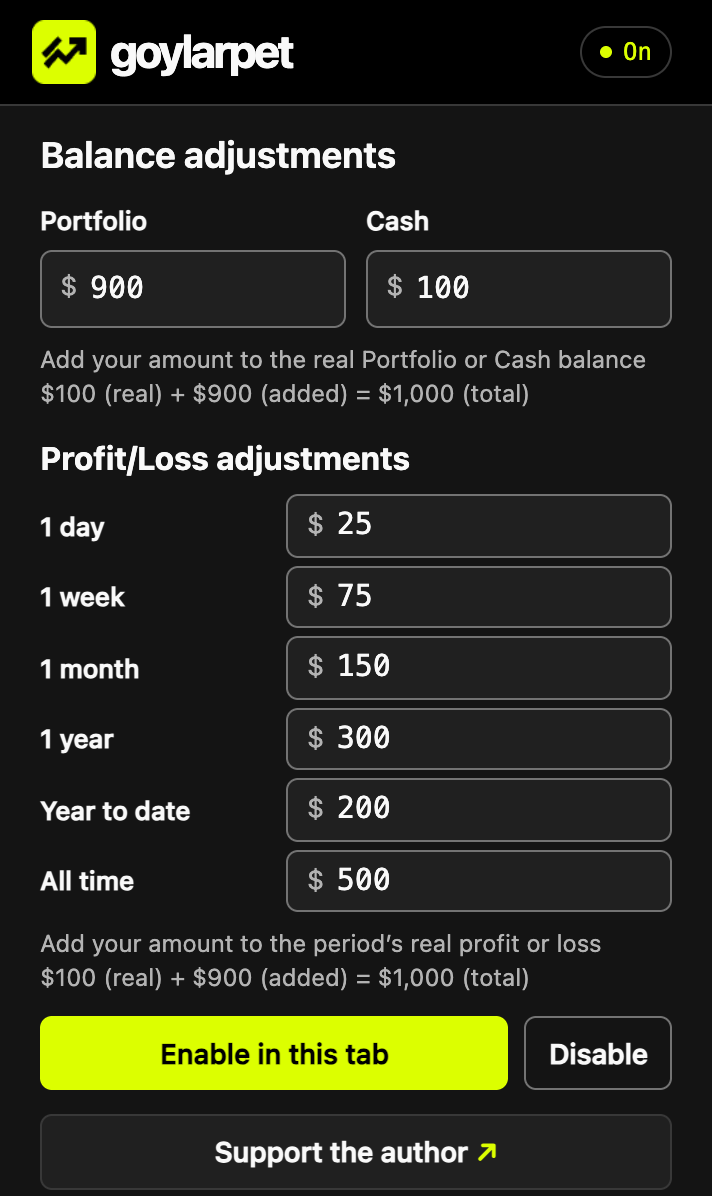
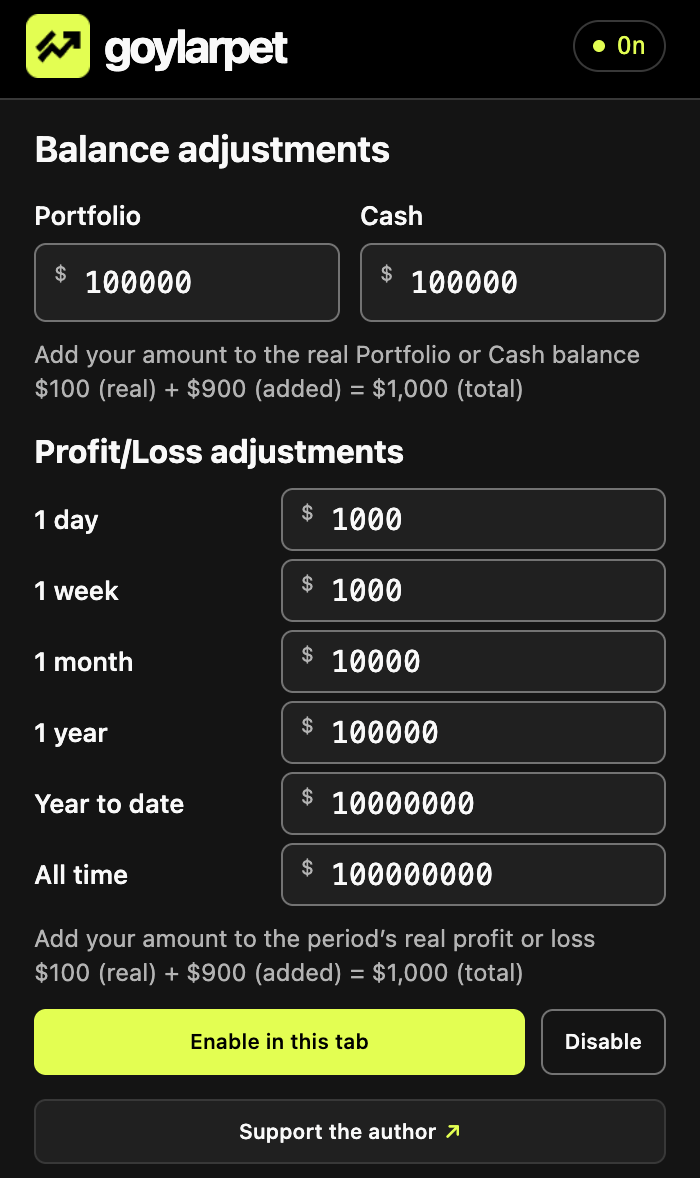
Show the Polymarket before and after screenshots on the landing page

diff --git a/site/assets/site.css b/site/assets/site.css
@@ -47,12 +47,28 @@ nav a:hover, .card-link:hover { color: var(--lime); }
 .lead { margin-block: 24px 28px; max-width: 38ch; font-size: clamp(17px, 1.5vw, 21px); color: var(--muted); }
 .preview { display: grid; place-items: center; }
 .preview img { display: block; width: min(100%, 326px); height: auto; border-radius: 12px; outline: 1px solid var(--line); box-shadow: 0 22px 48px -16px #000c; }
+.preview figcaption { margin-top: 12px; font-size: 14px; color: var(--muted); }
+.comparison { border-top: 1px solid var(--line); padding-block: clamp(32px, 5vw, 64px); }
+.comparison-heading { display: flex; align-items: baseline; justify-content: space-between; flex-wrap: wrap; gap: 10px 20px; margin-bottom: 24px; }
+.parody-note, .shot-label { font: 600 12px/1.5 ui-monospace, monospace; letter-spacing: .06em; }
+.parody-note { color: var(--lime); }
+.comparison-grid, .all-time { display: grid; grid-template-columns: repeat(2, minmax(0, 1fr)); gap: clamp(18px, 3vw, 36px); }
+.portfolio-shot { display: block; overflow: hidden; aspect-ratio: 3.1; background: var(--black); border: 1px solid var(--line); border-radius: 10px; cursor: zoom-in; }
+.portfolio-shot:hover { border-color: var(--lime); }
+/* Center both portfolio cards in the preview. The link opens the entire screenshot. */
+.portfolio-shot img { display: block; width: 143%; height: auto; margin: -11% 0 0 -21.5%; }
+.comparison figcaption { font-size: clamp(23px, 2.6vw, 36px); line-height: 1.1; font-weight: 550; letter-spacing: -.035em; }
+.comparison-grid figcaption { margin-top: 14px; }
+.shot-label { display: block; margin-bottom: 5px; color: var(--muted); }
+.all-time { align-items: center; margin-top: 32px; padding-top: 32px; border-top: 1px solid var(--line); }
+.all-time img { width: 100%; height: auto; display: block; border: 1px solid var(--line); border-radius: 10px; }
+.all-time strong { display: block; font-weight: inherit; color: var(--lime); }
 .walkthrough { margin-bottom: 48px; }
 .walkthrough video { display: block; width: 100%; max-height: 75vh; background: var(--black); border-radius: 12px; }
 .walkthrough h2 { margin-bottom: 14px; }
 .support-section { border-top: 1px solid var(--line); background: var(--panel); scroll-margin-top: 18px; }
 .support-grid { display: grid; grid-template-columns: 1.15fr .85fr; gap: 5%; align-items: center; padding-block: clamp(34px, 4vw, 56px); }
-.support-heading h2, .walkthrough h2 { font-weight: 500; letter-spacing: -.04em; font-size: clamp(32px, 3.8vw, 50px); line-height: 1.04; }
+.support-heading h2, .walkthrough h2, .comparison h2 { font-weight: 500; letter-spacing: -.04em; font-size: clamp(32px, 3.8vw, 50px); line-height: 1.04; }
 .support-heading p { margin-top: 12px; color: var(--muted); }
 .support-panel { min-width: 0; border-left: 1px solid var(--line); padding-left: clamp(18px, 3vw, 40px); }
 #no-address { display: flex; align-items: center; gap: 14px; flex-wrap: wrap; font-size: 14px; color: var(--muted); }
@@ -98,6 +114,11 @@ select { width: 100%; display: block; margin-top: 5px; padding: 8px; border: 1px
   .bar nav { font-size: 12px; gap: 12px; }
   .nav-install { min-height: 38px; font-size: 13px; padding: 7px 13px; }
   .hero, .doc-grid, .support-grid { grid-template-columns: minmax(0, 1fr); gap: 28px; }
+  .comparison-grid, .all-time { grid-template-columns: minmax(0, 1fr); }
+  .comparison-grid { gap: 24px; }
+  .portfolio-shot { aspect-ratio: 2.15; }
+  .portfolio-shot img { width: 285%; margin: -23% 0 0 -44.5%; }
+  .all-time { gap: 14px; margin-top: 24px; padding-top: 24px; }
   .hero h1 span { margin-top: 12px; }
   .lead { margin-block: 16px 20px; }
   .support-panel { border: 0; padding: 0; }

diff --git a/site/index.html b/site/index.html
@@ -30,7 +30,32 @@
         <a class="nav-install" data-install href="/download/">Install <span aria-hidden="true">↗</span></a>
       </div>
       <figure class="preview">
-        <img src="/assets/popup.png" width="712" height="1196" alt="goylarpet popup showing balance adjustments, six profit and loss periods and the Support the author link">
+        <img src="/assets/popup.png" width="700" height="1178" alt="goylarpet is on with $100,000 added to Portfolio and Cash and $100 million added to all-time profit and loss">
+        <figcaption>My settings</figcaption>
+      </figure>
+    </section>
+    <section class="comparison shell" id="before-and-after" aria-labelledby="comparison-title">
+      <header class="comparison-heading">
+        <h2 id="comparison-title">Before &amp; after</h2>
+        <p class="parody-note">PARODY · NO REAL MONEY</p>
+      </header>
+      <div class="comparison-grid">
+        <figure>
+          <a class="portfolio-shot" href="/assets/portfolio-before.png" aria-label="View the full before screenshot">
+            <img src="/assets/portfolio-before.png" width="2926" height="1508" loading="lazy" alt="Polymarket portfolio at $0.13 with no open positions">
+          </a>
+          <figcaption><span class="shot-label">Before</span>I was broke</figcaption>
+        </figure>
+        <figure>
+          <a class="portfolio-shot" href="/assets/portfolio-after.png" aria-label="View the full after screenshot">
+            <img src="/assets/portfolio-after.png" width="2930" height="1510" loading="lazy" alt="The same portfolio with goylarpet on, showing $100,000.13 and $1,000 in daily profit">
+          </a>
+          <figcaption><span class="shot-label">After</span>Six figures, zero positions</figcaption>
+        </figure>
+      </div>
+      <figure class="all-time">
+        <img src="/assets/all-time-profit.png" width="932" height="416" loading="lazy" alt="Polymarket’s all-time profit and loss display showing a fictional $99,999,975.82">
+        <figcaption><span class="shot-label">All-time P&amp;L</span>Now I’m the richest larper alive <strong>Suck it, bitches</strong></figcaption>
       </figure>
     </section>
     <section class="walkthrough shell" id="walkthrough" hidden><h2>Watch the demo</h2>
